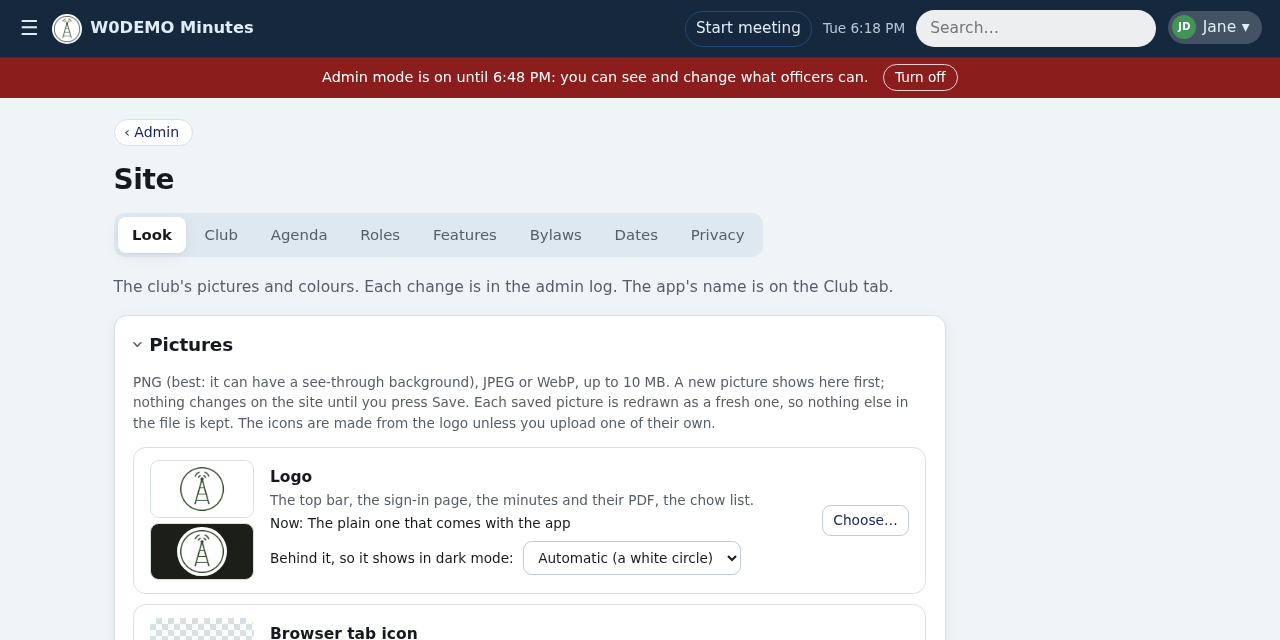
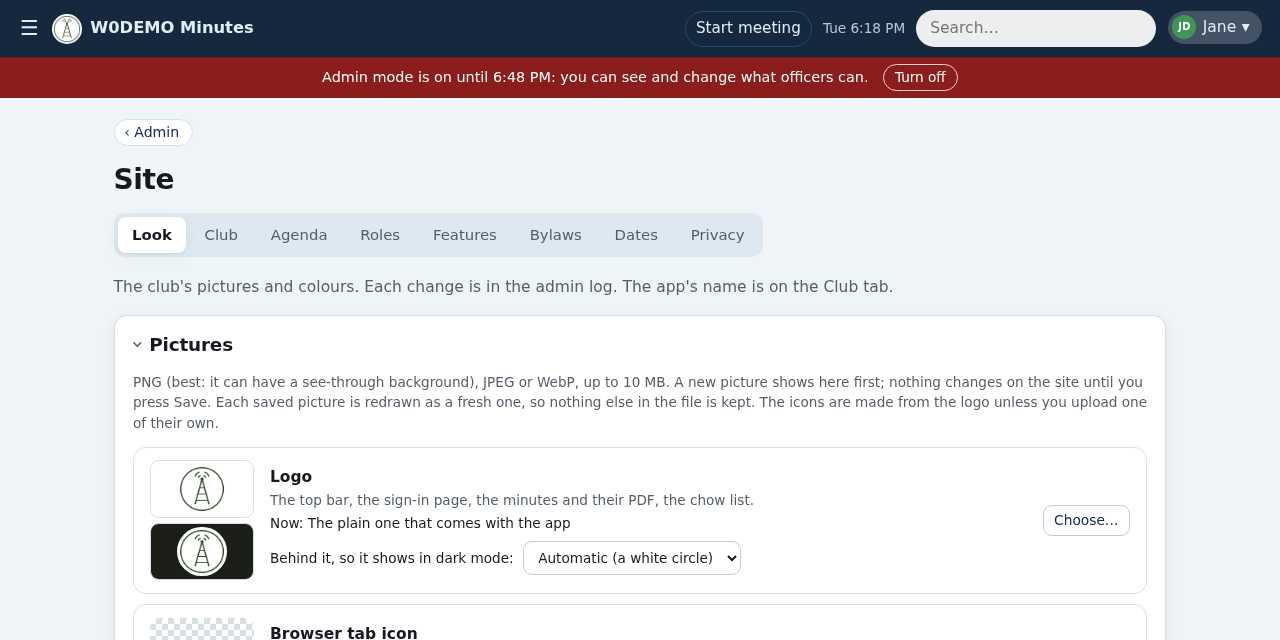
Admin pages one width: Backups and every Site tab use the page's width, as Security and Updates do; the offices grid keeps its columns together
Claude-Session: https://claude.ai/code/session_015owk5UJKnnQLC4ckPySnir

Changed region(s): [[0.0938, 0.5938, 0.9062, 0.6875], [0.8125, 0.7812, 0.875, 0.8438], [0.6562, 0.7812, 0.6875, 0.8438]]

diff --git a/src/club_minutes/static/style.css b/src/club_minutes/static/style.css
@@ -226,7 +226,7 @@ a[target="_blank"]:not([class])::after { content: "\00a0↗"; content: "\00a0↗
 .callout.warning, .callout.important { background: var(--warn-soft); color: var(--warn-text); border-left-color: var(--warn-edge); }
 .callout.caution { background: var(--danger-soft); color: var(--danger-text); border-left-color: var(--danger); }
 .callout.warning a, .callout.important a, .callout.caution a, .callout.warning code, .callout.caution code { color: inherit; }
-form.profile { max-width: 36rem; } form.profile > label { display: block; margin: .9rem 0; font-weight: 600; }
+form.profile { max-width: 36rem; } main form.profile[action^="/admin/"] { max-width: none; }  /* Admin pages: the page's width, as Security and Updates */ form.profile > label { display: block; margin: .9rem 0; font-weight: 600; }
 form.profile input, form.profile textarea { display: block; margin-top: .25rem; font-weight: normal; }
 form.profile input[type=email], form.profile input[type=tel], form.profile input[type=url], form.profile textarea { width: 100%; }
 form.profile input[type=checkbox] { display: inline-block; margin: 0 .3rem 0 0; }
@@ -623,7 +623,7 @@ form.colours input[type=color] { width: 3rem; height: 2rem; padding: 0; border: 
 .tp-muted { color: var(--muted); font-size: .85rem; }
 
 /* Admin → Site: each section a card; collapsible ones open from their heading */
-.sitesec { margin: 0 0 1rem; max-width: 52rem; } fieldset.sitesec { min-width: 0; } /* "Your own formats" only while it's ticked (CSS :has; an older browser just always shows it) */
+.sitesec { margin: 0 0 1rem; } fieldset.sitesec { min-width: 0; } /* "Your own formats" only while it's ticked (CSS :has; an older browser just always shows it) */
 .sitedates:has(input[name=preset]:not([value=custom]):checked) [data-own] { display: none; } .sitesec h2 { margin: 0 0 .6rem; font-size: 1.15rem; }
 details.sitesec > summary { cursor: pointer; list-style: none; display: flex; align-items: center; gap: .5rem; }
 details.sitesec > summary::-webkit-details-marker { display: none; }
@@ -635,7 +635,7 @@ form .sitesec label.check { display: flex; width: 100%; gap: .6rem; align-items:
 .sitesec label.check.small input { margin-top: 0; }
 main input.changed, main select.changed, main textarea.changed { border-color: var(--accent); box-shadow: 0 0 0 1px var(--accent); }  /* Site: changed, not saved yet */
 main label.changed { background: color-mix(in srgb, var(--accent) 14%, transparent); border-radius: var(--radius-sm); }  /* small text: the .25rem above would drop the box below its line */
-form.sitevideo { max-width: 52rem; } .sitevideo .pair { display: flex; flex-wrap: wrap; column-gap: .8rem; margin-bottom: .5rem; }  /* Site → Video: name and address side by side */
+.sitevideo .pair { display: flex; flex-wrap: wrap; column-gap: .8rem; margin-bottom: .5rem; }  /* Site → Video: name and address side by side */
 .sitevideo .pair label { flex: 1 1 12rem; } .sitevideo .pair input { width: 100%; } .sitevideo label:has(> select) { display: block; margin: .5rem 0; }
 .sitevideo label.check:has(> input[name^="guests"]:not(:checked)) + fieldset { display: none; }  /* members only: no guest rules to set */
 .sitevideo .guestgrid { display: grid; grid-template-columns: repeat(auto-fill, minmax(11rem, 1fr)); column-gap: 1rem; }
@@ -644,7 +644,7 @@ label.check > input { flex: none; }  /* anywhere: a wrapped label mustn't squeez
 @media (max-width: 560px) { .fmtgrid { grid-template-columns: 1fr; } .fmtgrid span { margin-bottom: .4rem; } }
 .agendagrid { display: grid; grid-template-columns: auto 3.5rem minmax(10rem, 16rem) 1fr; gap: .45rem .7rem; align-items: center; }
 .agendagrid input[name^=pos] { width: 3.2rem; text-align: center; }
-.officegrid { display: grid; grid-template-columns: minmax(0, 18rem) auto 4.2rem; gap: .45rem 1rem; align-items: center; justify-items: start; }
+.officegrid { display: grid; grid-template-columns: minmax(0, 18rem) auto 4.2rem; gap: .45rem 1rem; align-items: center; justify-items: start; justify-content: start; }
 .officegrid input[name^=title] { width: 100%; min-width: 0; box-sizing: border-box; }
 .rolelist { display: grid; gap: .6rem; }
 .rolelist details.role { border: 1px solid var(--border); border-radius: var(--radius-sm); background: var(--surface); padding: .5rem .9rem; }
@@ -656,8 +656,8 @@ label.check > input { flex: none; }  /* anywhere: a wrapped label mustn't squeez
 @media (max-width: 560px) { .officegrid { gap: .45rem .6rem; } .officegrid .agh { font-size: .7rem; line-height: 1.2; } }
 @media (max-width: 560px) { .agendagrid { grid-template-columns: auto 3.2rem minmax(0, 1fr); } .agendagrid .agh { display: none; }
   .agendagrid input[name^=hint] { grid-column: 2 / -1; margin-bottom: .6rem; } }
-form.siteagenda { max-width: 52rem; } form.profile .sitesec input[type=number] { display: inline-block; width: 4.5rem; margin: 0 .35rem 0 0; }
-form.sitewide { max-width: 52rem; } form.sitewide textarea { width: 100%; field-sizing: content; min-height: 4lh; }  /* grows with its text where the browser can */
+form.profile .sitesec input[type=number] { display: inline-block; width: 4.5rem; margin: 0 .35rem 0 0; }
+form.sitewide textarea { width: 100%; field-sizing: content; min-height: 4lh; }  /* grows with its text where the browser can */
 /* the certificate's fields only while it's ticked (CSS :has; an older browser just always shows them) */
 .sitecert:has(input[name=cert_on]:not(:checked)) .certfields { display: none; }
 /* Features → the club's own holidays: a row each; "+ Add a holiday" shows the next empty row (CSS only: a checkbox per row) */
